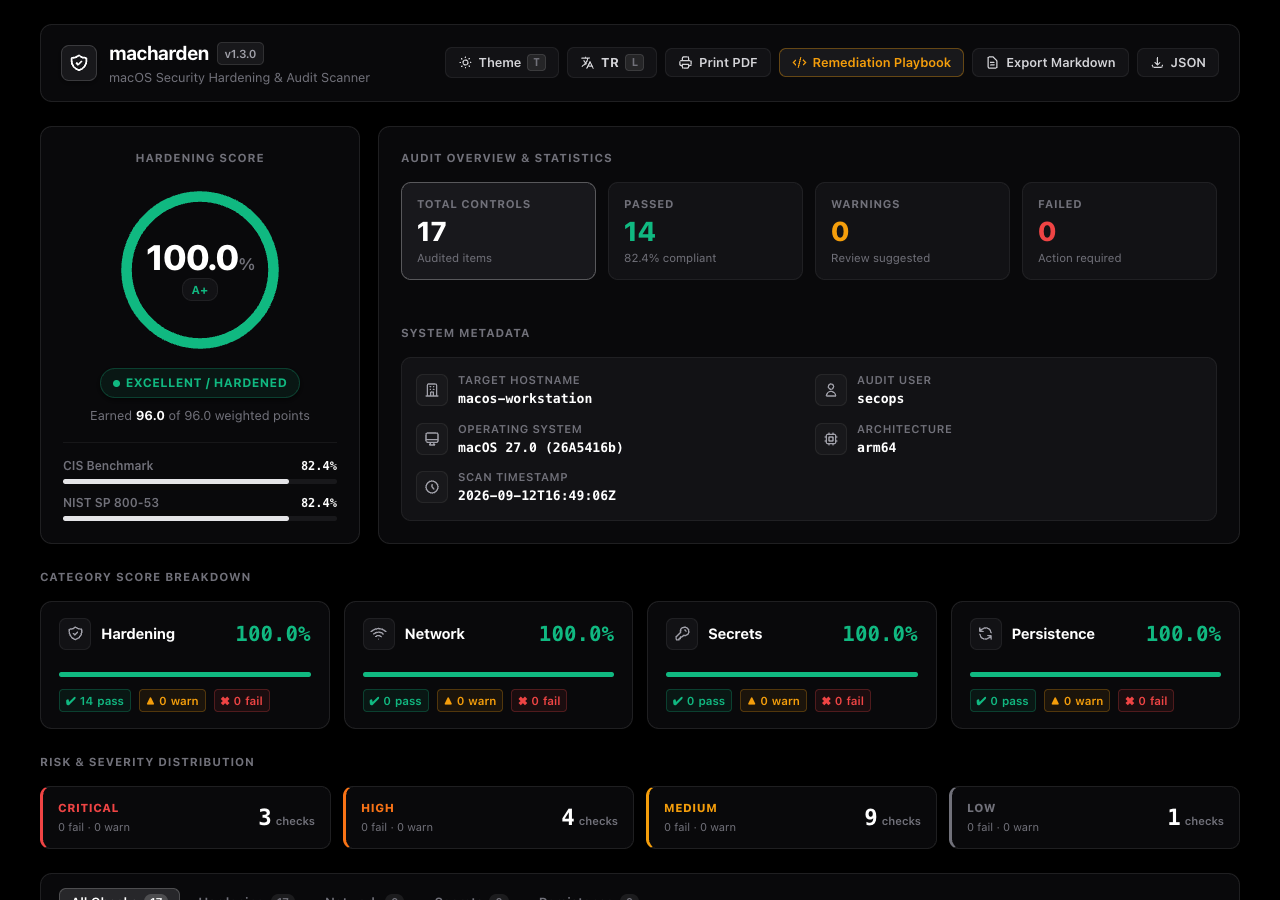
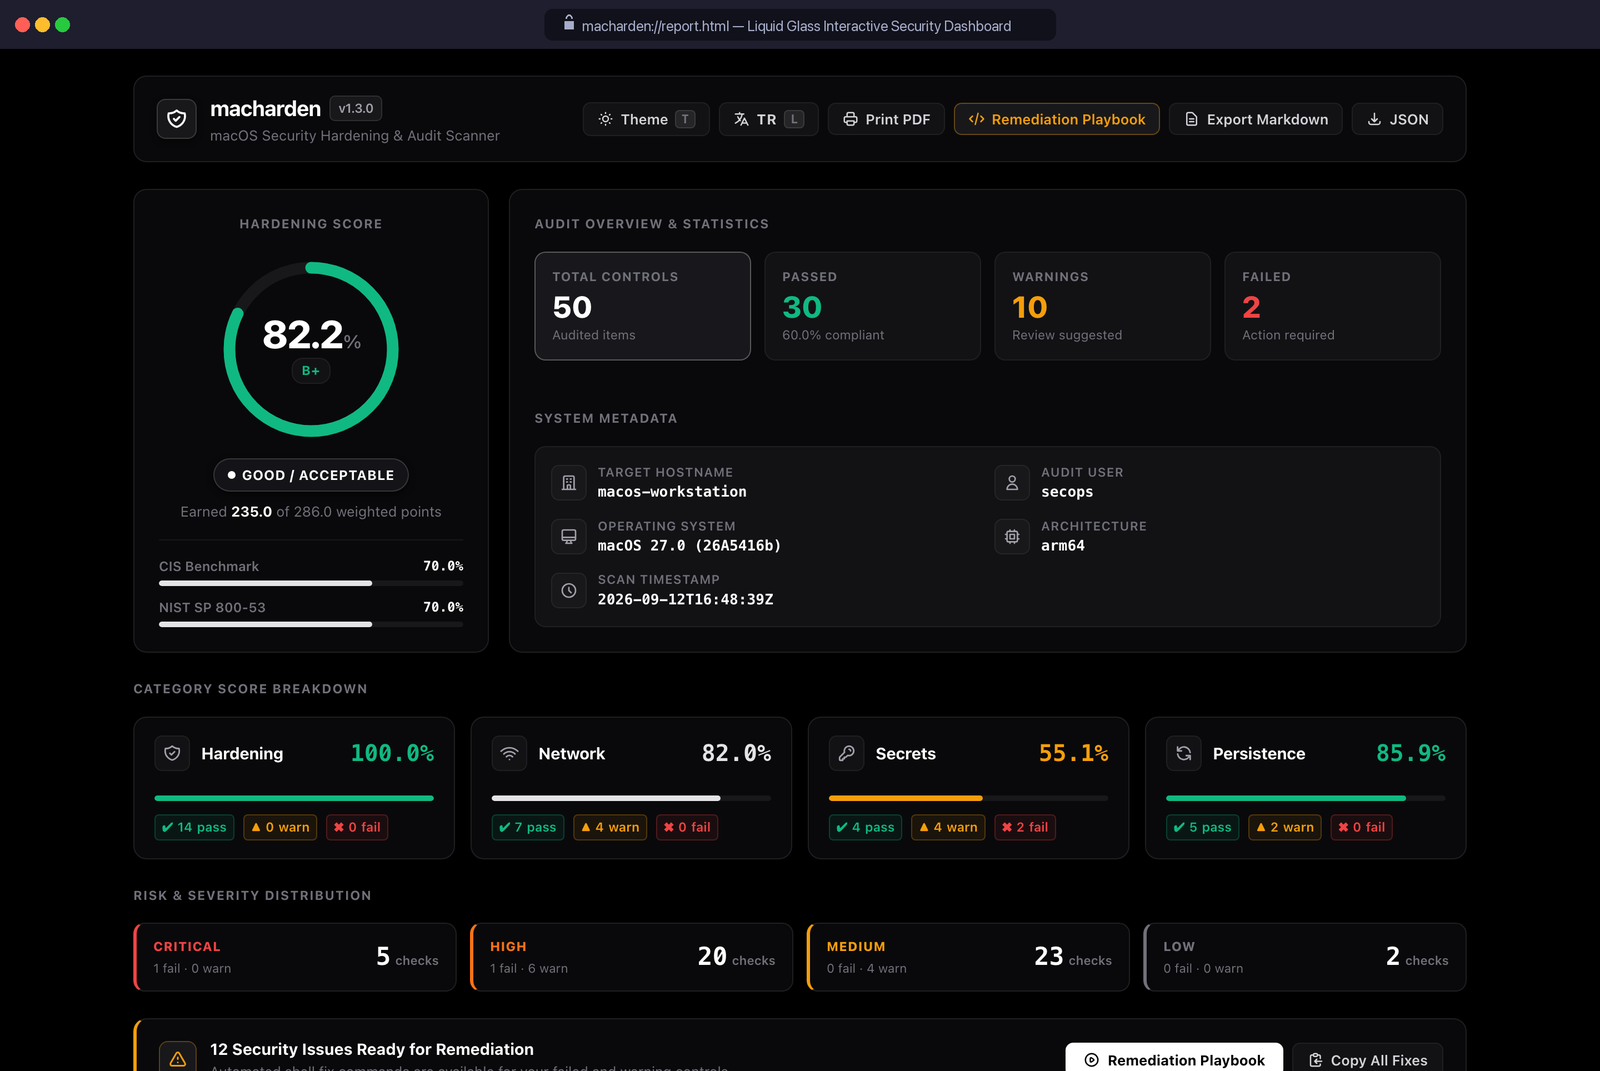
docs: overhaul demo gif, dashboard visual, and README marketing matrix

diff --git a/scripts/generate_demo_gif.py b/scripts/generate_demo_gif.py
@@ -141,27 +141,32 @@ def render_term_clip():
     tape_content = f"""Output "{os.path.join(TMP_DIR, 'term_clip.mp4')}"
 
 Set Shell "zsh"
-Set FontSize 15
+Set FontSize 14
 Set Width 1200
-Set Height 800
-Set Padding 24
+Set Height 840
+Set Padding 20
 Set WindowBar Colorful
 Set Theme "Catppuccin Mocha"
-Set LineHeight 1.2
-Set TypingSpeed 24ms
+Set LineHeight 1.25
+Set TypingSpeed 28ms
 Set CursorBlink true
 
 Hide
-Type "export PS1='%F{{cyan}}audit-demo@demo-mac%f %F{{magenta}}~/macharden%f %# '; alias macharden='./scripts/demo_fixture.sh'; clear"
+Type "export PS1='%F{{cyan}}security@macbook-pro%f %F{{magenta}}~/macharden%f %# '; alias macharden='./scripts/demo_fixture.sh'; clear"
 Enter
-Sleep 600ms
+Sleep 500ms
 Show
 
 Sleep 600ms
-Type "macharden --check HARD-01,HARD-02,HARD-18,NET-01,NET-10,SEC-03"
-Sleep 240ms
+Type "macharden"
+Sleep 200ms
 Enter
-Sleep 5.2s
+Sleep 4.5s
+
+Type "macharden -f html -o report.html"
+Sleep 200ms
+Enter
+Sleep 3.8s
 """
     tape_file = os.path.join(TMP_DIR, "terminal.tape")
     with open(tape_file, "w") as f:

diff --git a/README.md b/README.md
@@ -6,6 +6,8 @@
 </p>
 
 <p align="center">
+  <a href="https://github.com/jankesec/macharden/stargazers"><img src="https://img.shields.io/github/stars/jankesec/macharden?style=flat&color=yellow&logo=github" alt="GitHub Stars"></a>
+  <a href="https://github.com/jankesec/macharden/network/members"><img src="https://img.shields.io/github/forks/jankesec/macharden?style=flat&color=blue&logo=github" alt="GitHub Forks"></a>
   <a href="https://github.com/jankesec/macharden/actions/workflows/ci.yml"><img src="https://github.com/jankesec/macharden/actions/workflows/ci.yml/badge.svg" alt="CI Status"></a>
   <a href="https://github.com/jankesec/macharden/releases/latest"><img src="https://img.shields.io/github/v/release/jankesec/macharden?color=blue&logo=github" alt="Latest Release"></a>
   <a href="#-license"><img src="https://img.shields.io/badge/License-MIT-blue.svg" alt="License: MIT"></a>
@@ -23,7 +25,7 @@
 <p align="center">
   <img src="assets/demo.gif" alt="macharden terminal audit and interactive dashboard demonstration" width="100%">
 </p>
-<p align="center"><em>Terminal audit, weighted Hardening Index, category posture, and the interactive Liquid Glass dashboard. The recording is generated from deterministic synthetic findings and contains no workstation identity, local paths, credentials, or real security posture data.</em></p>
+<p align="center"><em>Live terminal audit across all 4 security domains, weighted Hardening Index, category posture breakdown, high-priority remediation actions, and instant single-file Liquid Glass HTML5 report export. Pure native Zsh execution with zero external dependencies.</em></p>
 
 ---
 
@@ -60,6 +62,25 @@ Unlike generic Unix scanners that treat macOS as a generic BSD derivative, **mac
 | 🔧 **Risk-Aware Remediation** | Only explicitly typed `[EXEC]` actions can run; `[GUIDE]` items stay manual. Includes interactive remediation (`--fix`), dry-run preview, executable playbooks, and rollback. |
 | 🎛 **Tailored Baselines** | Lynis-style profiles support skipped controls plus mSCP-style organization-defined values (ODVs), so user-impacting policy is never silently imposed. |
 | 📜 **Regulatory Compliance** | Direct control mapping to **CIS Apple macOS Benchmark**, **NIST SP 800-53 Rev 5**, and **MITRE ATT&CK Matrix for macOS**. |
+
+---
+
+## 🥊 Why macharden? (Competitive Comparison)
+
+Security engineers and Mac administrators often ask why they should choose `macharden` over generic Unix scanners or heavyweight compliance suites:
+
+| Feature / Capability | 🛡 **macharden** | **Lynis** | **Apple mSCP** | **CIS-CAT Pro** |
+|:---|:---:|:---:|:---:|:---:|
+| **Runtime Dependencies** | **Zero (Native Zsh/Bash)** | Python / Perl plugins | Python, Ruby, Git | Java Runtime (JRE 11+) |
+| **macOS First & Architecture** | **macOS 12–15+ (Apple Silicon & Intel)** | Linux-first (generic BSD checks) | macOS only | Cross-platform |
+| **Native Security Subsystems** | **Deep (SIP, FileVault, BPF, OpenBSM, Launchd)** | Basic Unix file permissions | MDM Configuration Profiles | Benchmark XML rules |
+| **Interactive HTML5 Dashboard** | **Yes (Liquid Glass, 0 CDN, Dark/Light)** | No (Text / Paid Enterprise) | No (Static AsciiDoc/HTML) | Basic HTML table |
+| **GitHub Security SARIF v2.1.0** | **Native out-of-the-box** | Third-party converters | No | Commercial add-on |
+| **Historical Drift & CI/CD Gate** | **Built-in (`--diff`, `--fail-on-regression`)** | Manual log comparisons | No | Enterprise server |
+| **Remediation & Rollback** | **Yes (`--fix`, `--dry-run`, `--undo`)** | Suggestion text only | Script generation (MDM) | Bash scripts (often risky) |
+| **Multi-Language Support** | **English & Turkish (Native i18n)** | English only | English only | English only |
+| **Execution Speed** | **Sub-second (~0.8s for 54 controls)** | 10–30 seconds | Minutes (profile compile) | 2–5 minutes |
+| **Licensing** | **MIT (100% Free & Open Source)** | GPLv3 / Enterprise Paywall | Public Domain | Commercial / Paid CIS Membership |
 
 ---
 
@@ -444,6 +465,18 @@ macharden/
 # Execute local test suite:
 make test
 ```
+
+---
+
+## ⭐ Star History & Community Support
+
+If you find **macharden** valuable for securing your Mac, your fleet, or your enterprise endpoints, please consider starring the repository! It helps the project reach more security engineers and macOS defenders.
+
+<p align="center">
+  <a href="https://star-history.com/#jankesec/macharden&Date">
+    <img src="https://api.star-history.com/svg?repos=jankesec/macharden&type=Date" alt="Star History Chart" width="80%">
+  </a>
+</p>
 
 ---
 
